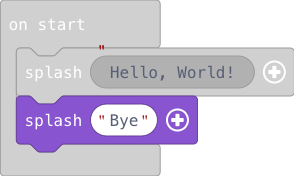
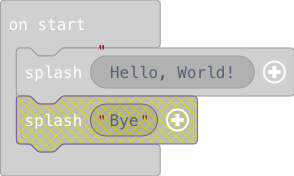
Update main.blocks, main.ts

Changed region(s): [[0.0306, 0.5398, 0.6735, 0.8807]]

diff --git a/main.ts b/main.ts
@@ -1,2 +1,1 @@
 game.splash("Hello, World!")
-game.splash("Bye")
